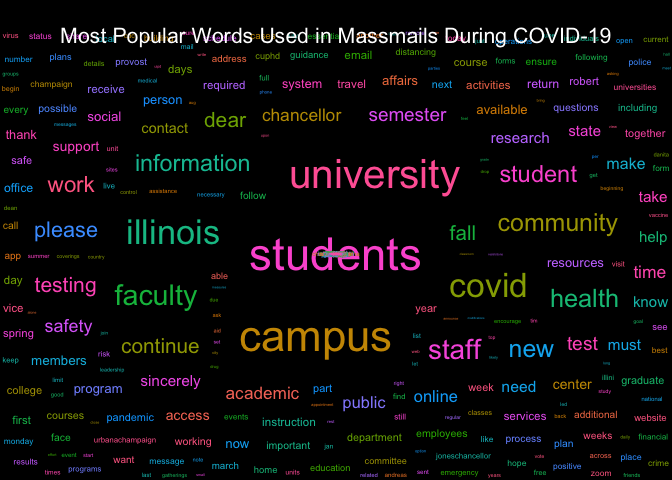
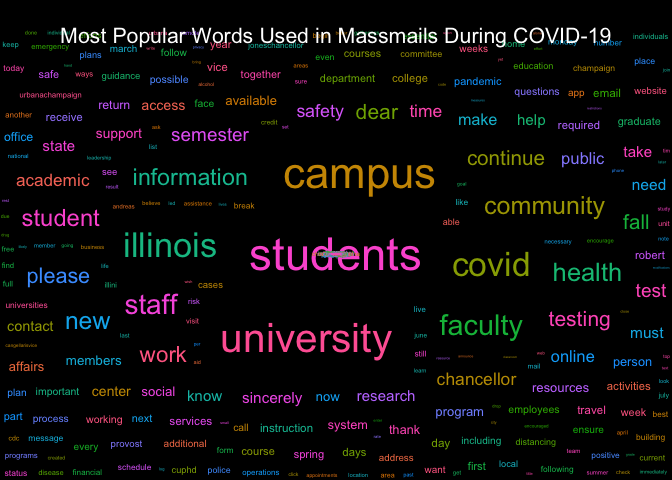
Re-build README.Rmd and Graphs

Changed region(s): [[0.0, 0.0625, 1.0, 1.0], [0.4062, 0.3125, 0.7188, 0.5], [0.5938, 0.625, 0.6562, 0.6562]]

diff --git a/README.md b/README.md
@@ -17,7 +17,7 @@ The archive may be viewed here:
 
 <https://massmail.illinois.edu/massmailArchive>
 
-Data has **1302** observations and **7** variables:
+Data has **1304** observations and **7** variables:
 
   - `datetime`: Date and time when the email was sent in the form of
     `YYYY-MM-DD HMS` with either CDT or CST.
@@ -210,16 +210,16 @@ head(most_popular_words, 10) %>%
 
 | word        | freq |
 | :---------- | ---: |
-| students    |  855 |
-| university  |  792 |
-| campus      |  790 |
-| illinois    |  515 |
-| covid       |  475 |
-| faculty     |  428 |
-| community   |  420 |
+| students    |  862 |
+| university  |  800 |
+| campus      |  795 |
+| illinois    |  519 |
+| covid       |  479 |
+| faculty     |  433 |
+| community   |  427 |
 | information |  371 |
-| staff       |  340 |
-| health      |  337 |
+| staff       |  345 |
+| health      |  342 |
 
 #### Wordcloud
 
